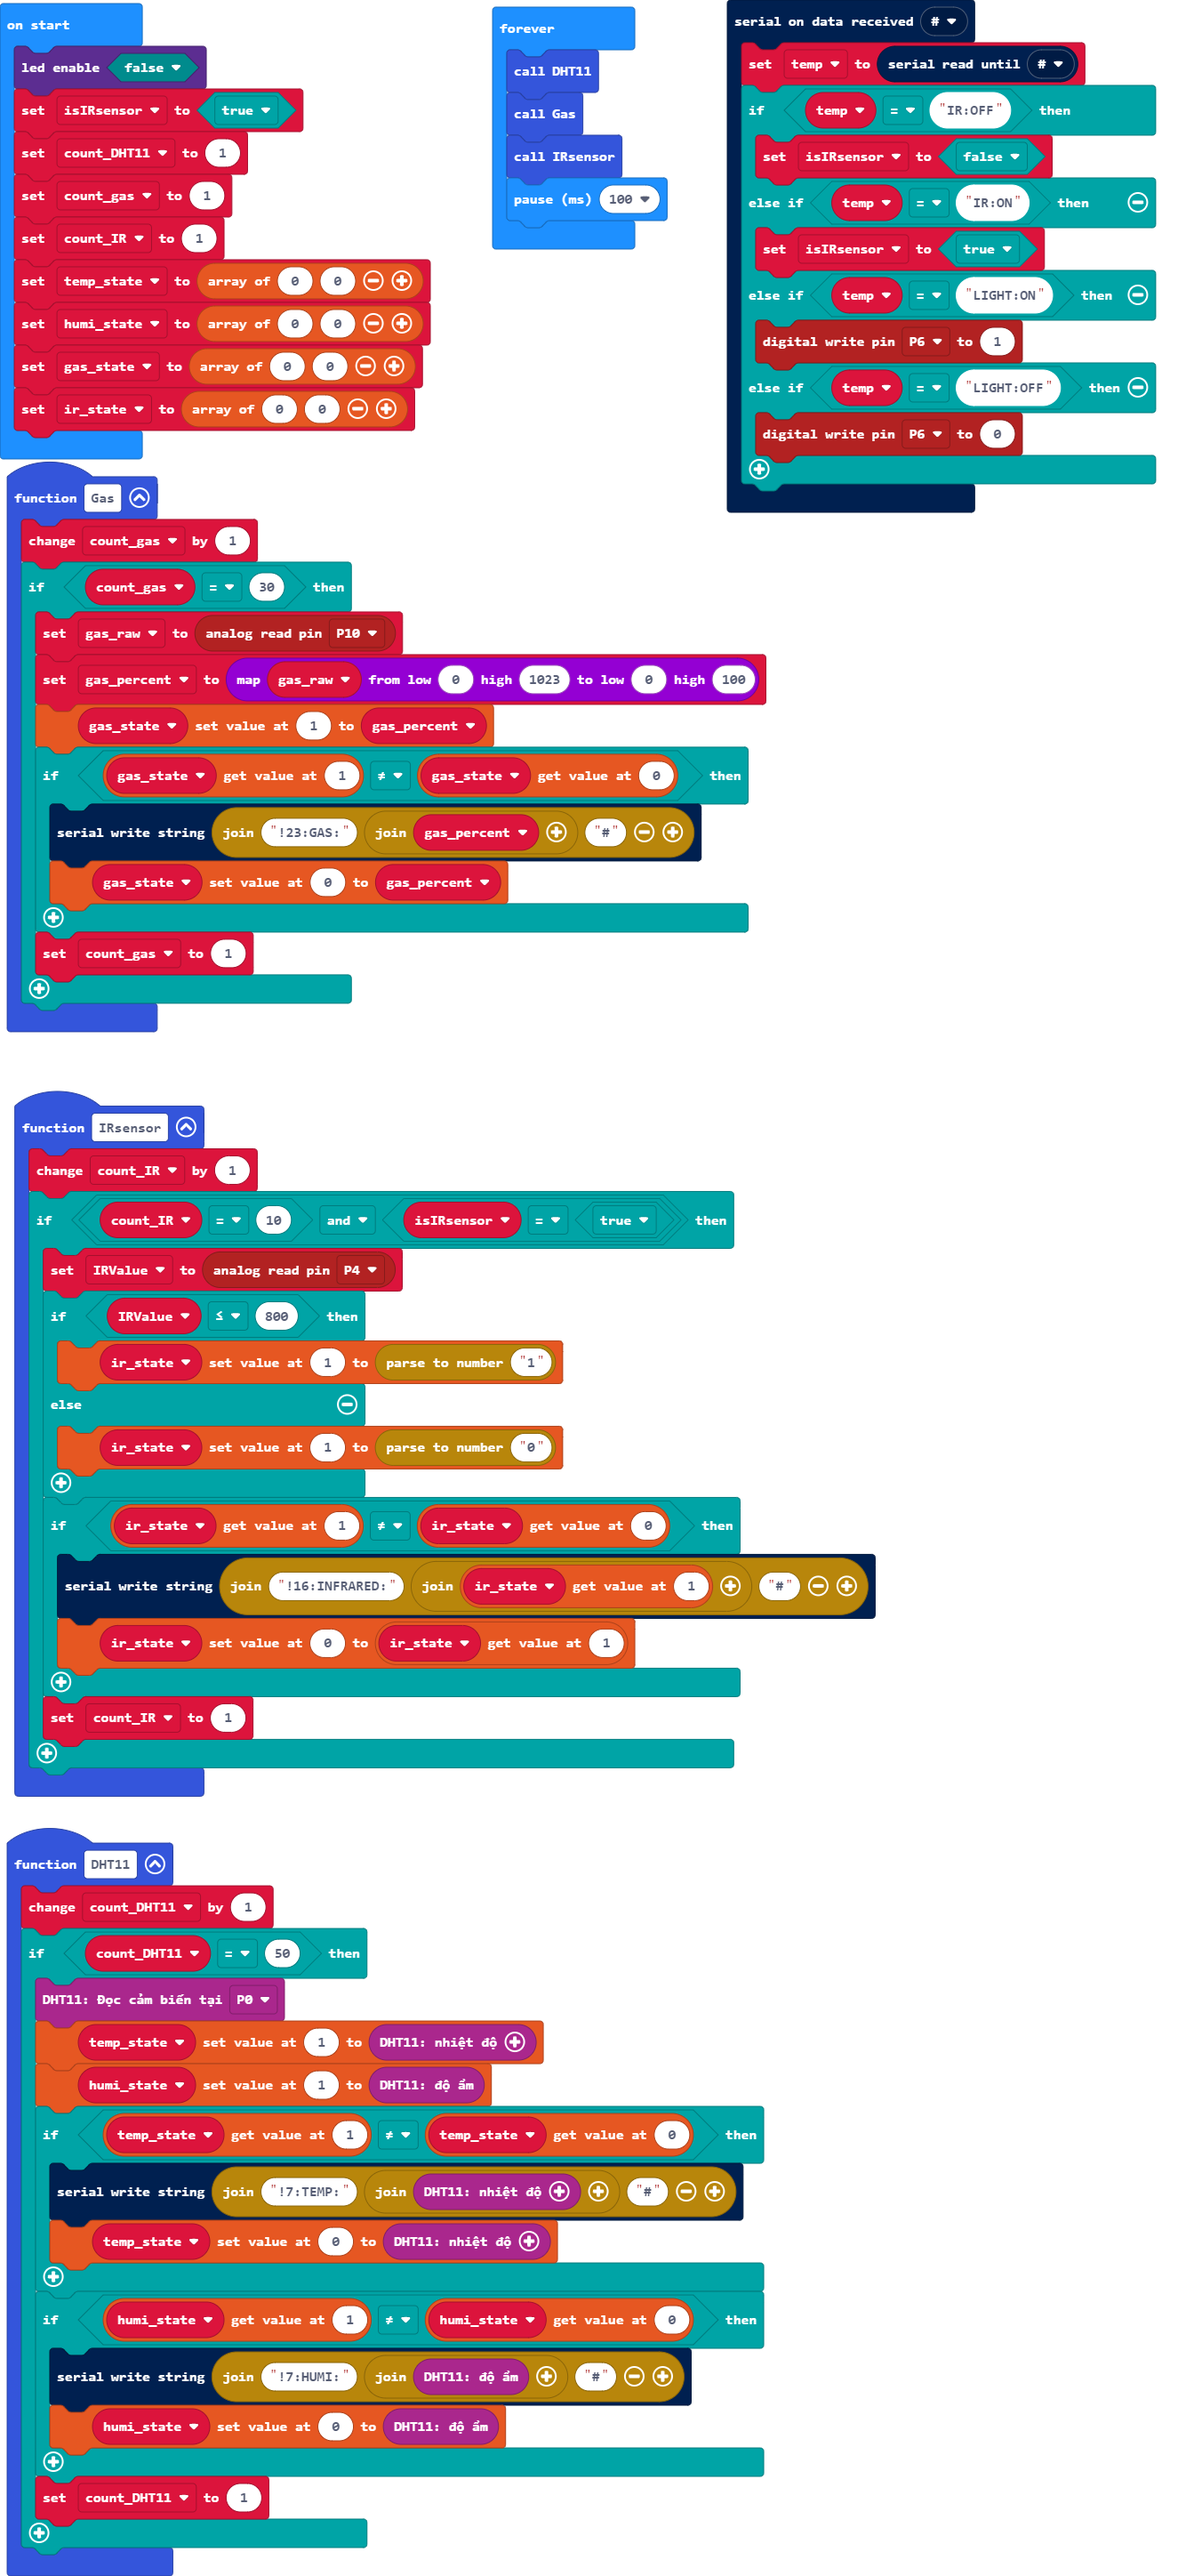
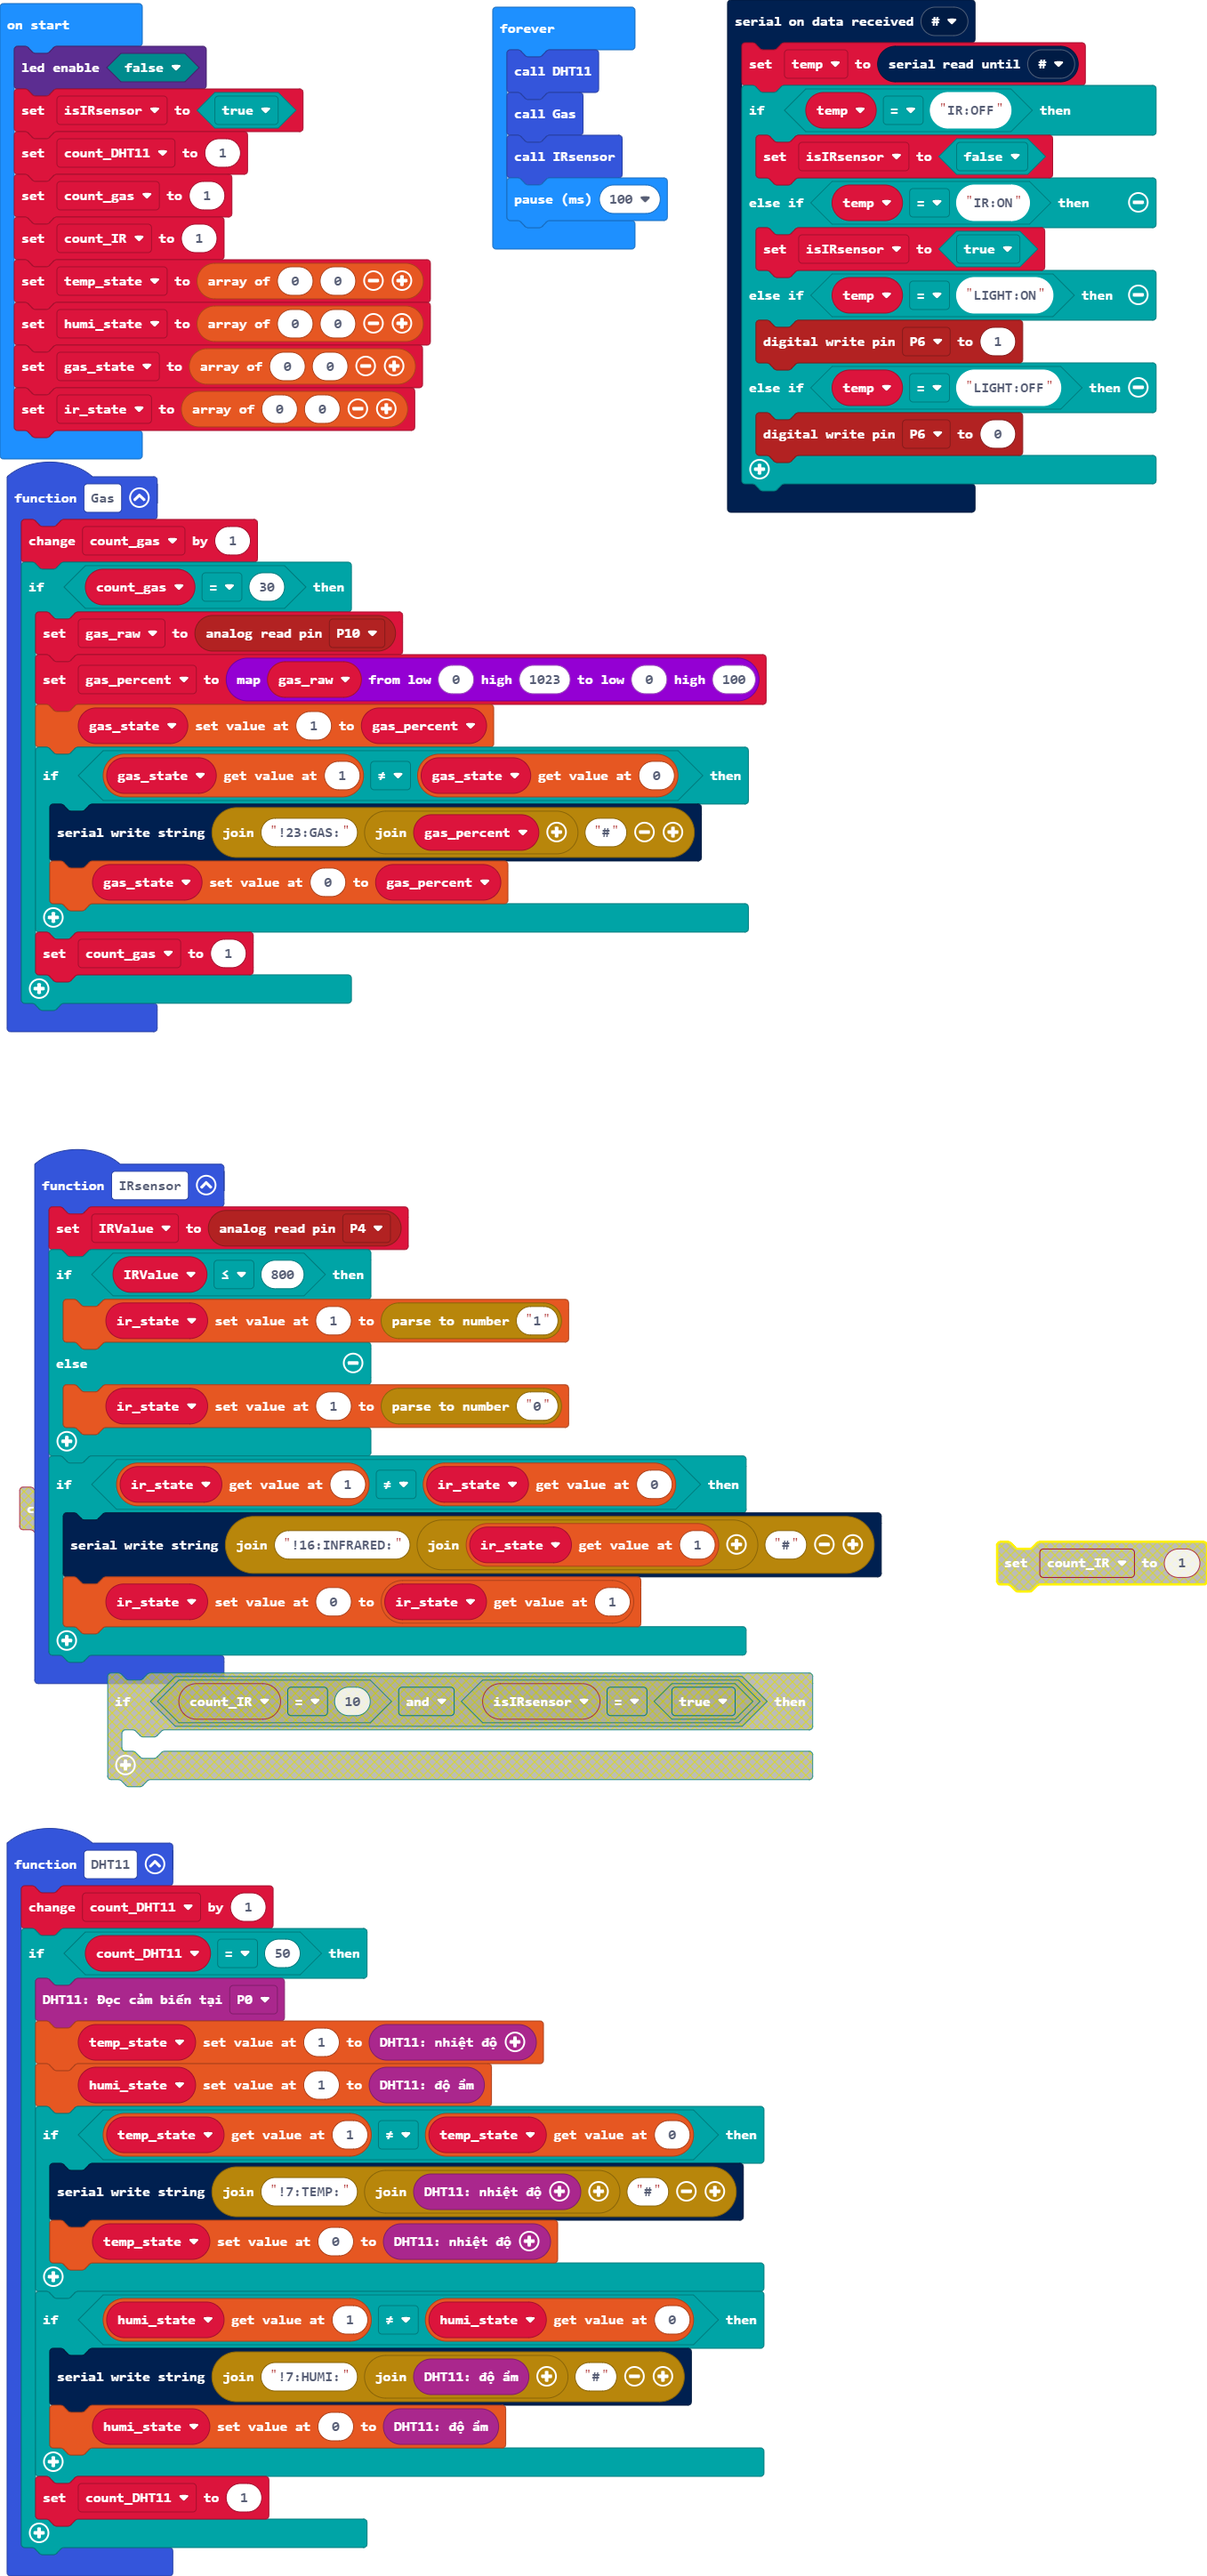
Update main.blocks, main.ts

diff --git a/main.ts b/main.ts
@@ -16,19 +16,15 @@ function DHT11 () {
     }
 }
 function IRsensor () {
-    count_IR += 1
-    if (count_IR == 10 && isIRsensor == true) {
-        IRValue = pins.analogReadPin(AnalogPin.P4)
-        if (IRValue <= 800) {
-            ir_state[1] = parseFloat("1")
-        } else {
-            ir_state[1] = parseFloat("0")
-        }
-        if (ir_state[1] != ir_state[0]) {
-            serial.writeString("!16:INFRARED:" + ("" + ir_state[1]) + "#")
-            ir_state[0] = ir_state[1]
-        }
-        count_IR = 1
+    IRValue = pins.analogReadPin(AnalogPin.P4)
+    if (IRValue <= 800) {
+        ir_state[1] = parseFloat("1")
+    } else {
+        ir_state[1] = parseFloat("0")
+    }
+    if (ir_state[1] != ir_state[0]) {
+        serial.writeString("!16:INFRARED:" + ("" + ir_state[1]) + "#")
+        ir_state[0] = ir_state[1]
     }
 }
 function Gas () {
@@ -64,7 +60,6 @@ let ir_state: number[] = []
 let gas_state: number[] = []
 let humi_state: number[] = []
 let temp_state: number[] = []
-let count_IR = 0
 let count_gas = 0
 let count_DHT11 = 0
 let isIRsensor = false
@@ -72,7 +67,7 @@ led.enable(false)
 isIRsensor = true
 count_DHT11 = 1
 count_gas = 1
-count_IR = 1
+let count_IR = 1
 temp_state = [0, 0]
 humi_state = [0, 0]
 gas_state = [0, 0]
